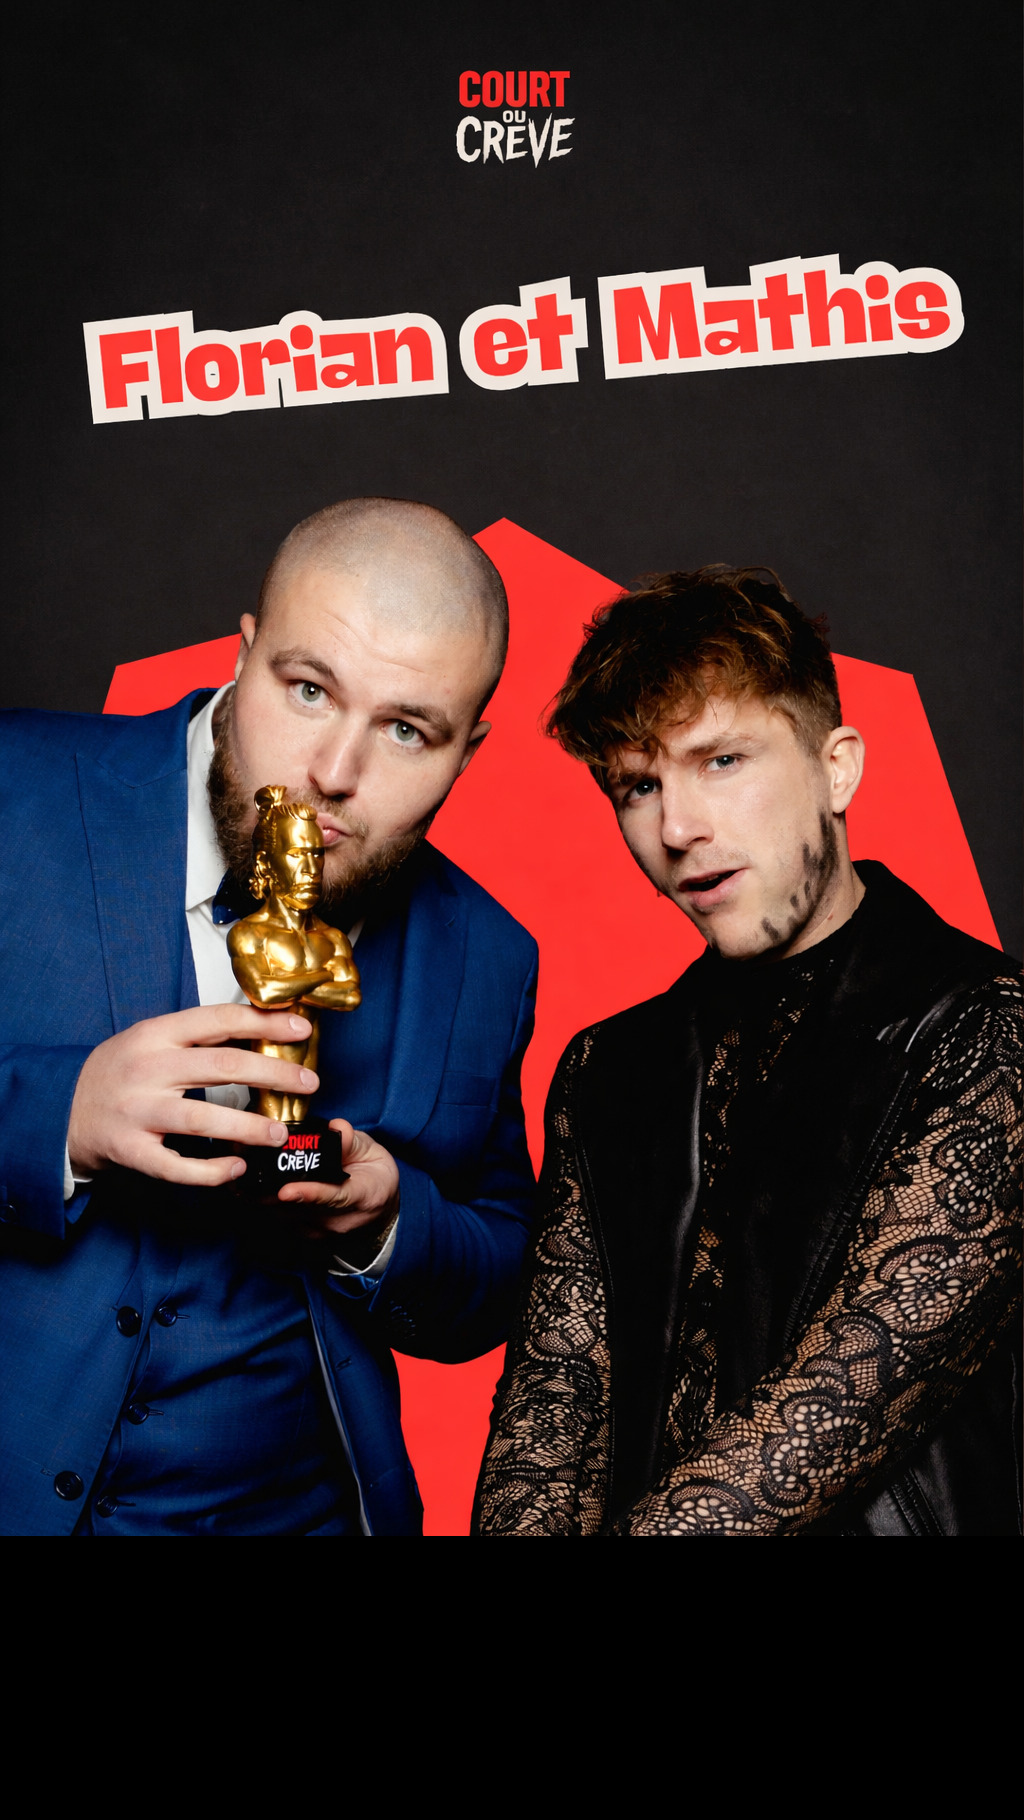
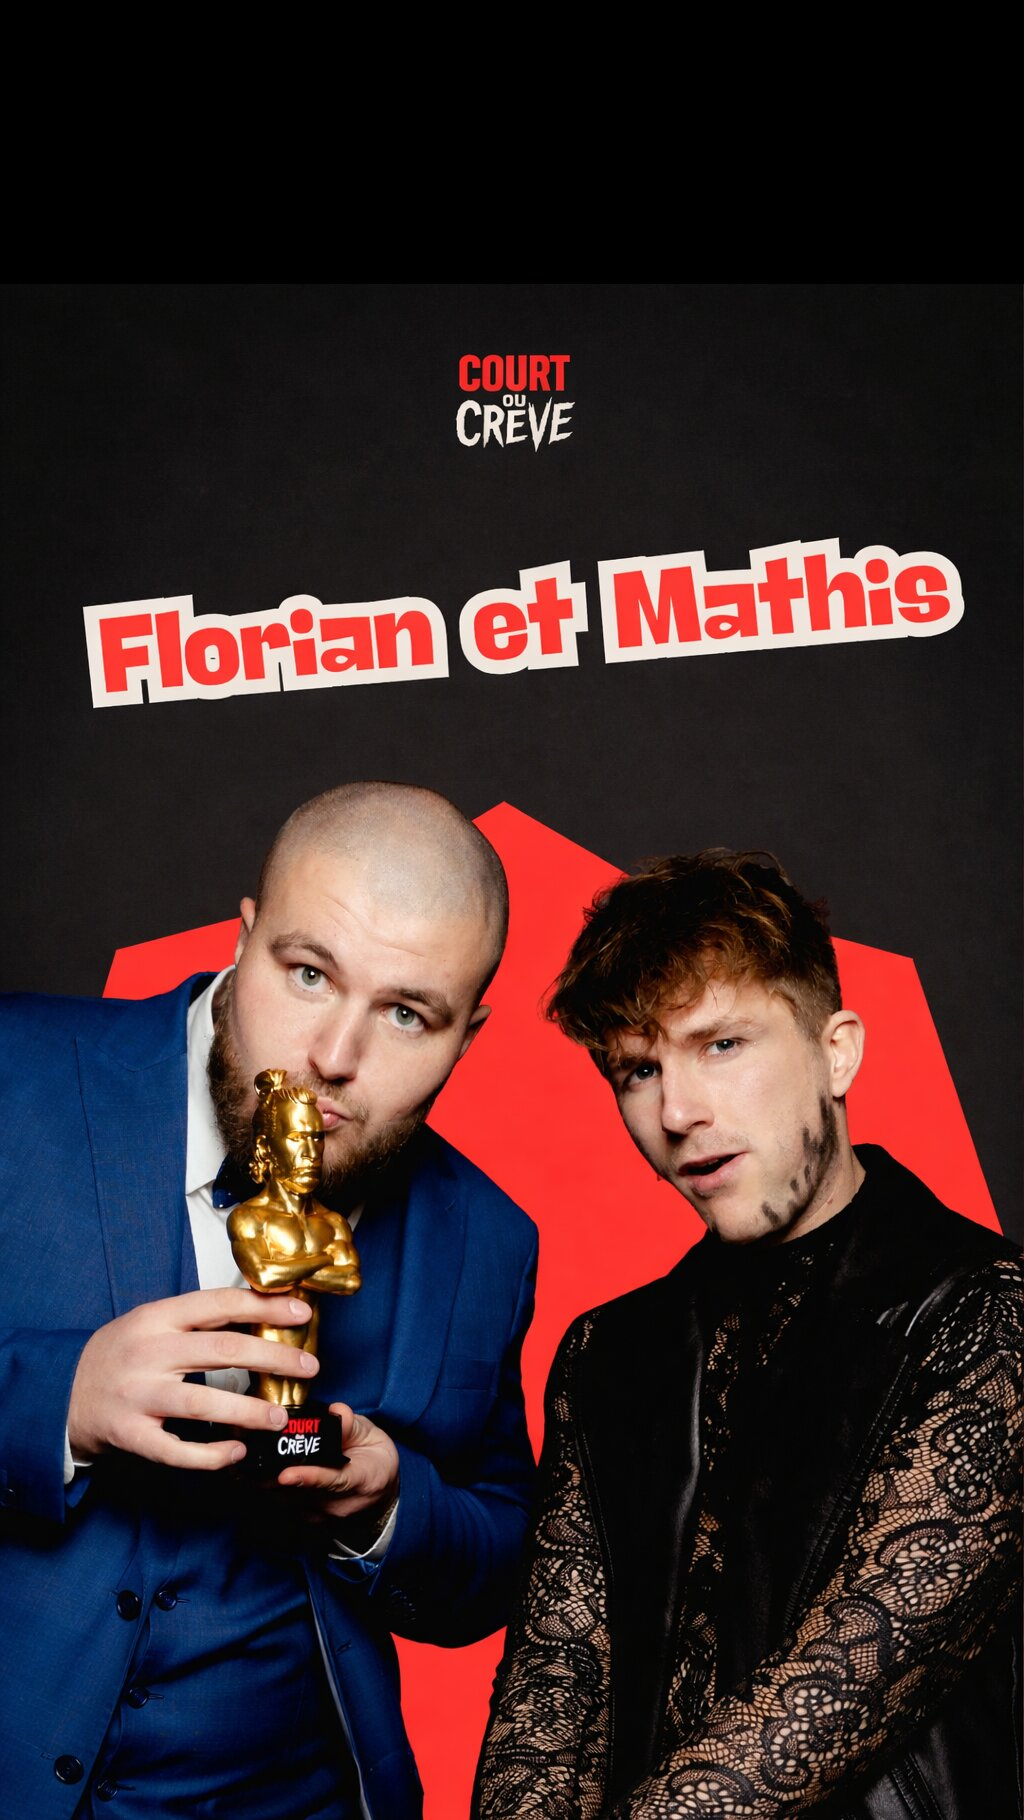
Fix noms tronqués + taille mobile
- Nouveau poster avec padding en haut (noms visibles)
- Réduction hauteur player mobile (65vh max 650px)
- Fix pour iPhone Pro Max

diff --git a/index.html b/index.html
@@ -940,7 +940,8 @@
 
       .hero-right {
         order: 2;
-        min-height: 50vh;
+        height: 65vh;
+        max-height: 650px;
       }
 
       .hero-left::after {
